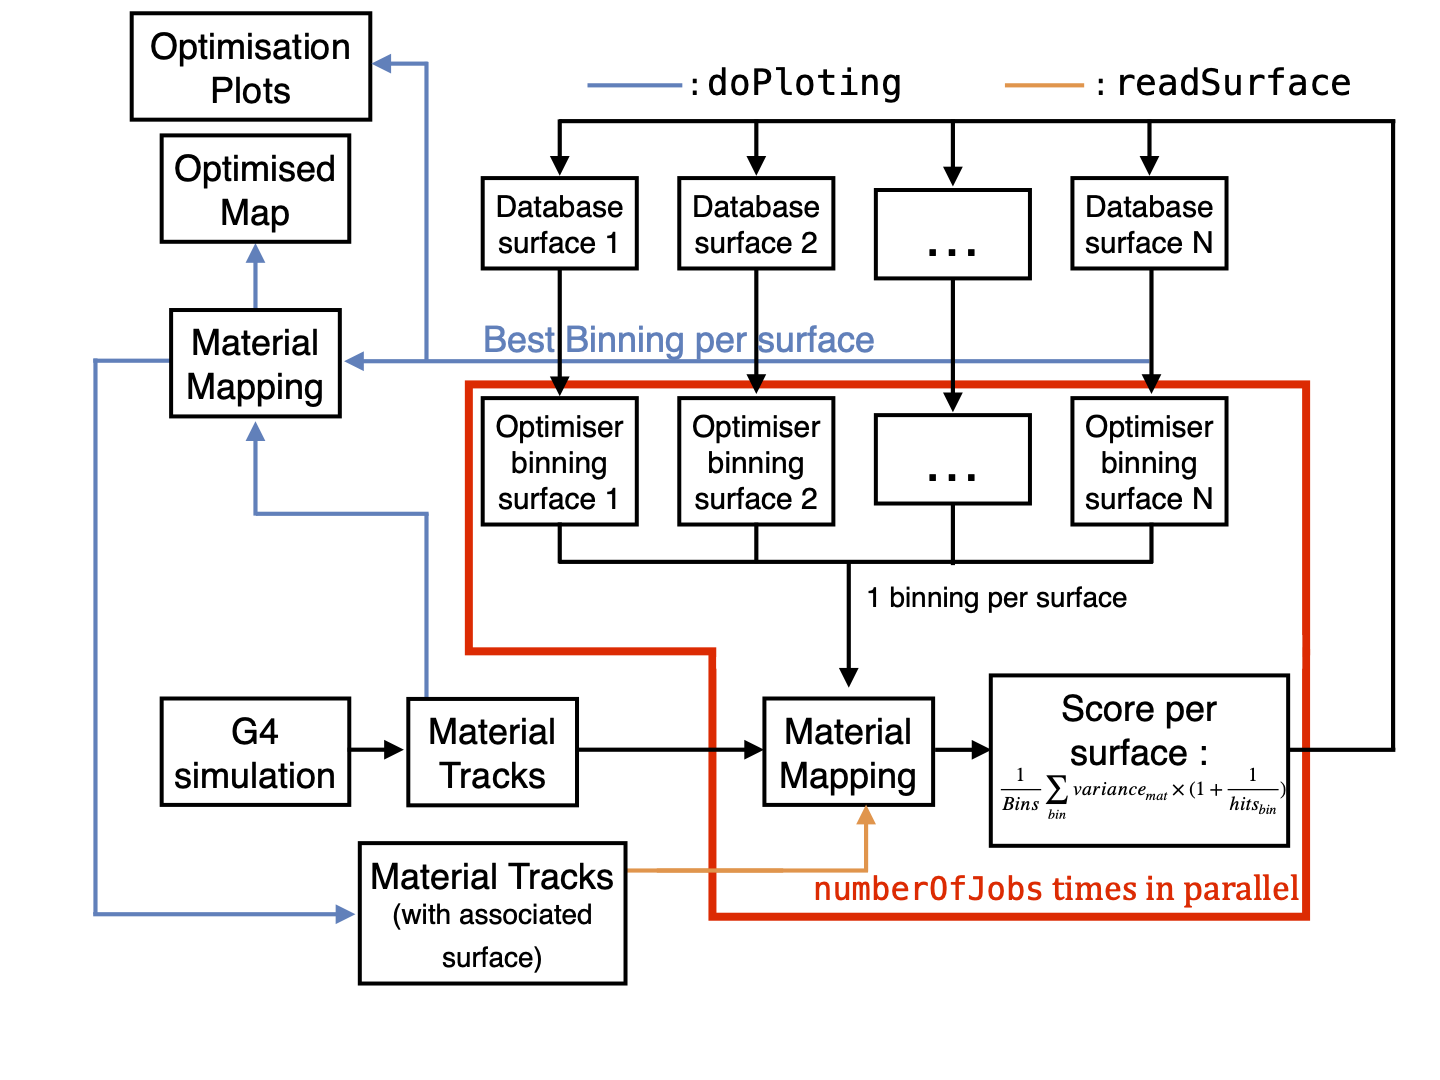
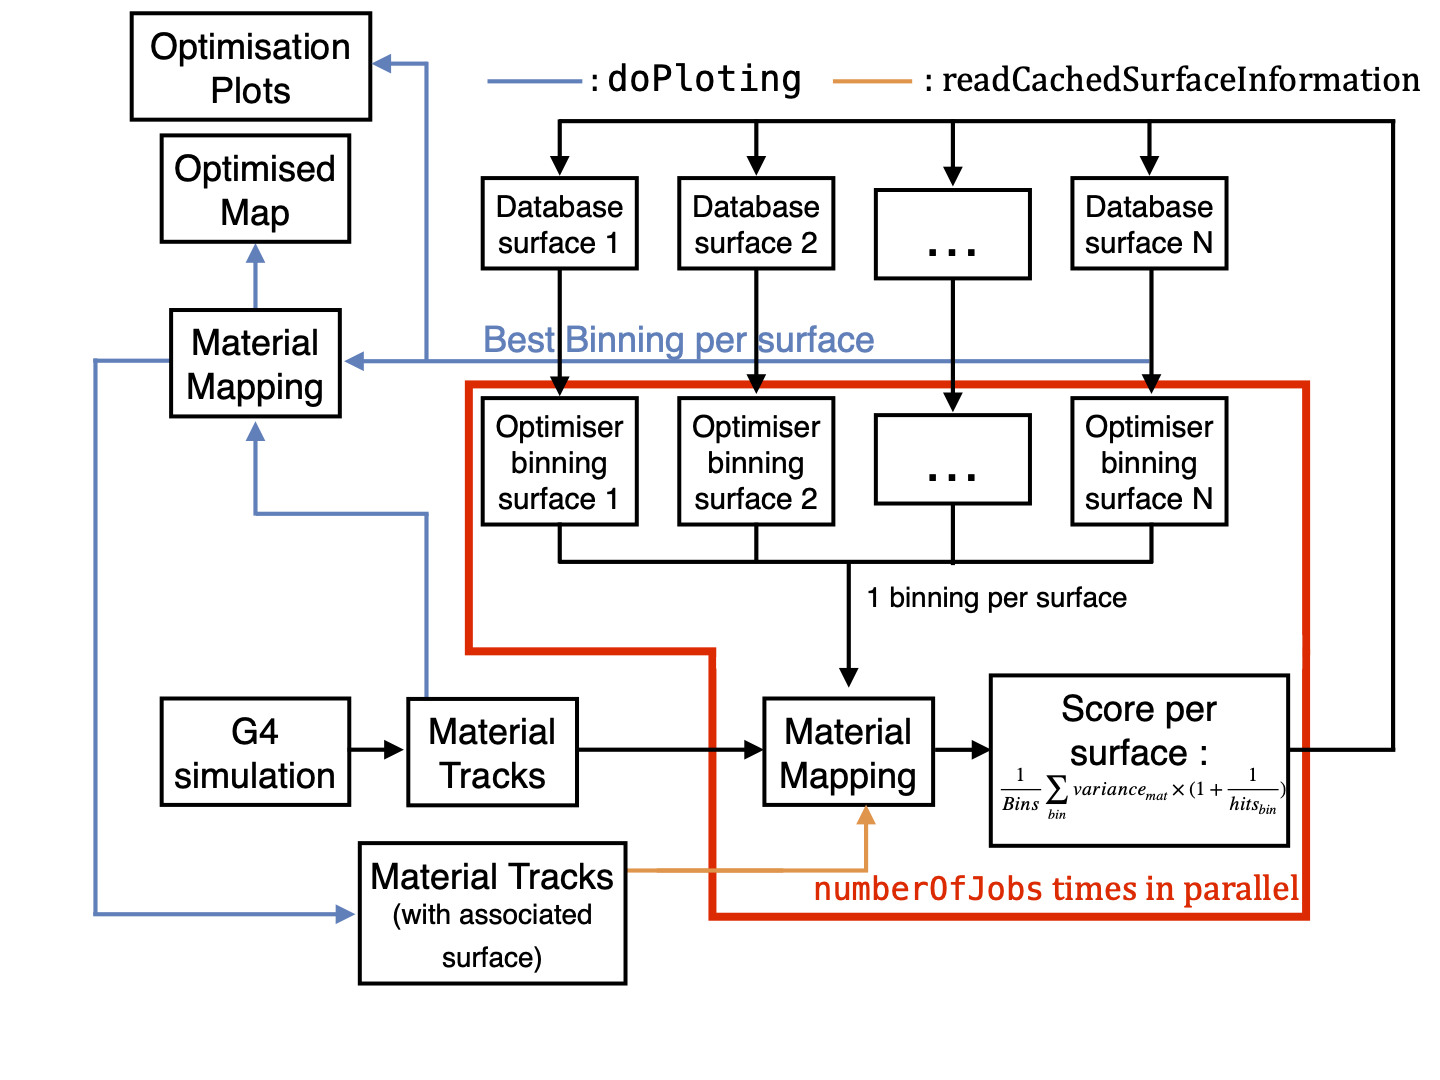
change option name

Changed region(s): [[0.6562, 0.0611, 1.0, 0.0917], [0.3438, 0.0611, 0.625, 0.0917]]

diff --git a/Examples/Scripts/Python/Auto-tuning/Orion/material_mapping_optimisation.py b/Examples/Scripts/Python/Auto-tuning/Orion/material_mapping_optimisation.py
@@ -46,7 +46,7 @@ def runMaterialMappingNoTrack(
     mapSurface=True,
     mapVolume=True,
     format=JsonFormat.Json,
-    readSurface=False,
+    readCachedSurfaceInformation=False,
     s=None,
 ):
     """
@@ -61,7 +61,7 @@ def runMaterialMappingNoTrack(
     mapSurface : Is material being mapped onto surfaces ?
     mapVolume : Is material being mapped onto volumes ?
     format : Json format used to write the material map (json, cbor, ...)
-    readSurface : If set to true it will be assumed that the surface has already been associated with each material interaction in the input file.
+    readCachedSurfaceInformation : If set to true it will be assumed that the surface has already been associated with each material interaction in the input file.
     """
 
     s = s or Sequencer(numThreads=1)
@@ -81,11 +81,11 @@ def runMaterialMappingNoTrack(
                 os.path.join(
                     inputDir,
                     "optimised-material-map_tracks.root"
-                    if readSurface
+                    if readCachedSurfaceInformation
                     else "geant4_material_tracks.root",
                 )
             ],
-            readSurface=readSurface,
+            readCachedSurfaceInformation=readCachedSurfaceInformation,
         )
     )
 
@@ -139,7 +139,13 @@ def runMaterialMappingNoTrack(
 
 
 def runMaterialMappingVariance(
-    binMap, events, job, inputPath, pathExp, pipeResult, readSurface=False
+    binMap,
+    events,
+    job,
+    inputPath,
+    pathExp,
+    pipeResult,
+    readCachedSurfaceInformation=False,
 ):
     """
     Run the material mapping and compute the variance for each bin of each surfaces
@@ -152,7 +158,7 @@ def runMaterialMappingVariance(
     inputPath : Directory containing the input geantino track and the json geometry
     pathExp : Material mapping optimisation path
     pipeResult : Pipe to send back the score to the main python instance
-    readSurface : Are surface information stored in the material track. Switch to true if the mapping was already performed to improve the speed.
+    readCachedSurfaceInformation : Are surface information stored in the material track. Switch to true if the mapping was already performed to improve the speed.
     """
     print(
         datetime.now().strftime("%H:%M:%S") + "    Start mapping for job " + str(job),
@@ -198,7 +204,7 @@ def runMaterialMappingVariance(
         mapName=mapName,
         format=JsonFormat.Cbor,
         mapVolume=mapVolume,
-        readSurface=readSurface,
+        readCachedSurfaceInformation=readCachedSurfaceInformation,
         s=sMap,
     )
     sMap.run()
@@ -237,11 +243,11 @@ def runMaterialMappingVariance(
             os.path.join(
                 inputPath,
                 "optimised-material-map_tracks.root"
-                if readSurface
+                if readCachedSurfaceInformation
                 else "geant4_material_tracks.root",
             )
         ],
-        readSurface=readSurface,
+        readCachedSurfaceInformation=readCachedSurfaceInformation,
     )
     s.addReader(reader)
     stepper = StraightLineStepper()
@@ -459,10 +465,10 @@ if "__main__" == __name__:
         "--doPloting", action="store_true"
     )  # Return the optimisation plot and create the optimal material map
     parser.add_argument(
-        "--readSurface", action="store_true"
+        "--readCachedSurfaceInformation", action="store_true"
     )  # Use surface information from the material track
     parser.set_defaults(doPloting=False)
-    parser.set_defaults(readSurface=False)
+    parser.set_defaults(readCachedSurfaceInformation=False)
     args = parser.parse_args()
 
     # Define the useful path and create them if they do not exist
@@ -549,7 +555,7 @@ if "__main__" == __name__:
                 args.inputPath,
                 pathExp,
                 resultPipes_child[job],
-                args.readSurface,
+                args.readCachedSurfaceInformation,
             ),
         )
         OptiJob[job].start()

diff --git a/docs/examples/howto/run_material_mapping_auto_tuning.rst b/docs/examples/howto/run_material_mapping_auto_tuning.rst
@@ -58,7 +58,7 @@ Once we have our json configuration file and our geantino material track file we
 - ``inputPath`` the path to the input directory
 - ``outputPath`` the path to the output directory
 - ``doPloting`` if added at the end of the optimisation script, the optimal material will be computed and result plots will be created. (Should be used at the end of the optimisation).
-- ``readSurface`` if added the material-surface association will be taken from the input material track file (doesn't work with geantino file, you need to use the material track file obtained from running the material mapping).
+- ``readCachedSurfaceInformation`` if added the material-surface association will be taken from the input material track file (doesn't work with geantino file, you need to use the material track file obtained from running the material mapping).
 
 When using Orion our optimisation algorithm can easily be parallelised. Orion uses a Database system that stores all the mapping configuration tested so far, before starting a new trial the database is checked that the parameters have not been used before. Each time you run ``material_mapping_optimisation.py`` a batch of ``numberOfJobs`` trials will be performed and added to the database. Once you have run it enough time, you can extract the result by running with the ``--doPloting`` option.
 
@@ -83,6 +83,6 @@ After creating the trials process wait until it has received one binning per tri
 
 Each of the mapping process will need to perform the material mapping twice, once to determine the average material in each bin and a second time to compute the variance. For each surface, a score is then computed using the variance and the number of hits in each bin. This score is then piped to the main process.
 
-After receiving the scores, the main process pipes them back to the trial processes which will store them in the database. The script then ends when this has been done for all the jobs. If the ``--doPloting`` option was used, each trial process will also return some plot related to the optimisation performance so far. They will also pipe their best binning to the main process. One last mapping job is then performed in the main process, this will return the optimised material map and a material track file where the material is already associated to the surfaces. This last file can be used for validation and as an input to futur mapping jobs to speed them by up to 50% (using the ``--readSurface`` option).
+After receiving the scores, the main process pipes them back to the trial processes which will store them in the database. The script then ends when this has been done for all the jobs. If the ``--doPloting`` option was used, each trial process will also return some plot related to the optimisation performance so far. They will also pipe their best binning to the main process. One last mapping job is then performed in the main process, this will return the optimised material map and a material track file where the material is already associated to the surfaces. This last file can be used for validation and as an input to futur mapping jobs to speed them by up to 50% (using the ``--readCachedSurfaceInformation`` option).
 
 ![Diagramme of the material mapping auto-tuning](/figures/materialMapping/ActsMaterialMappingAutoTuning.png)
